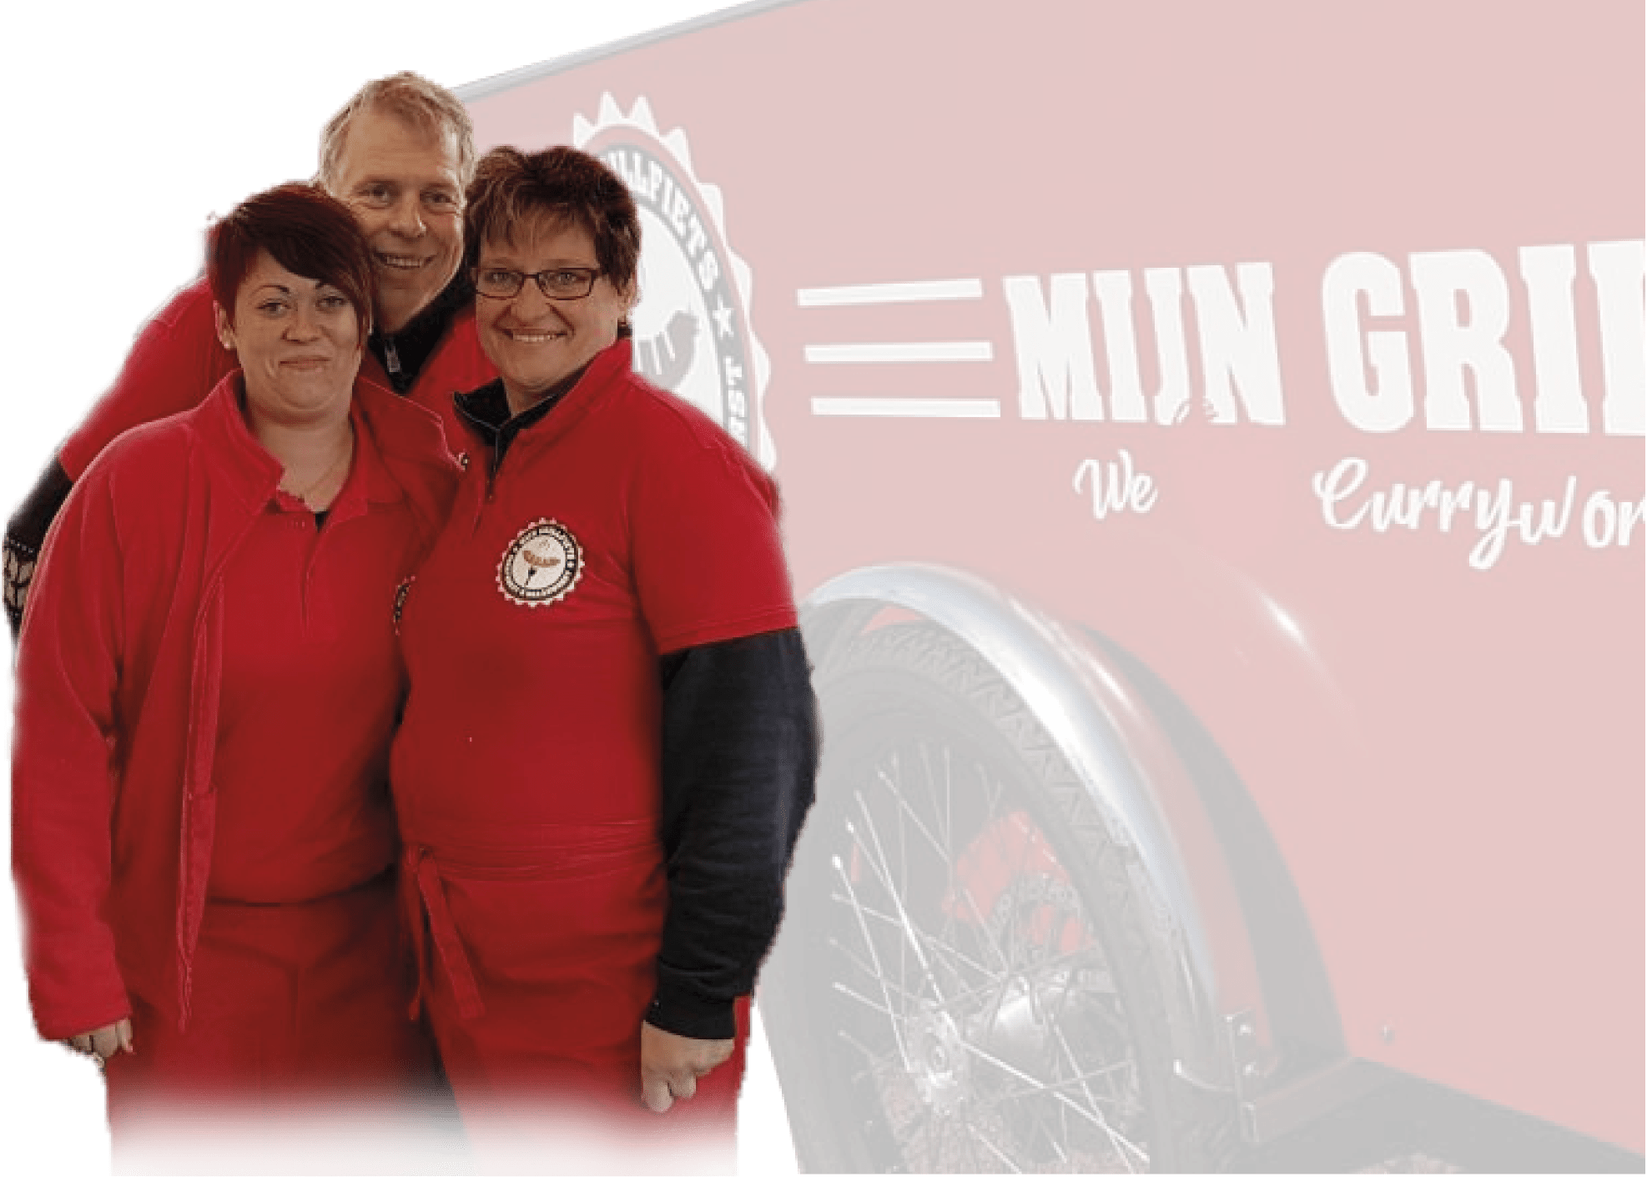
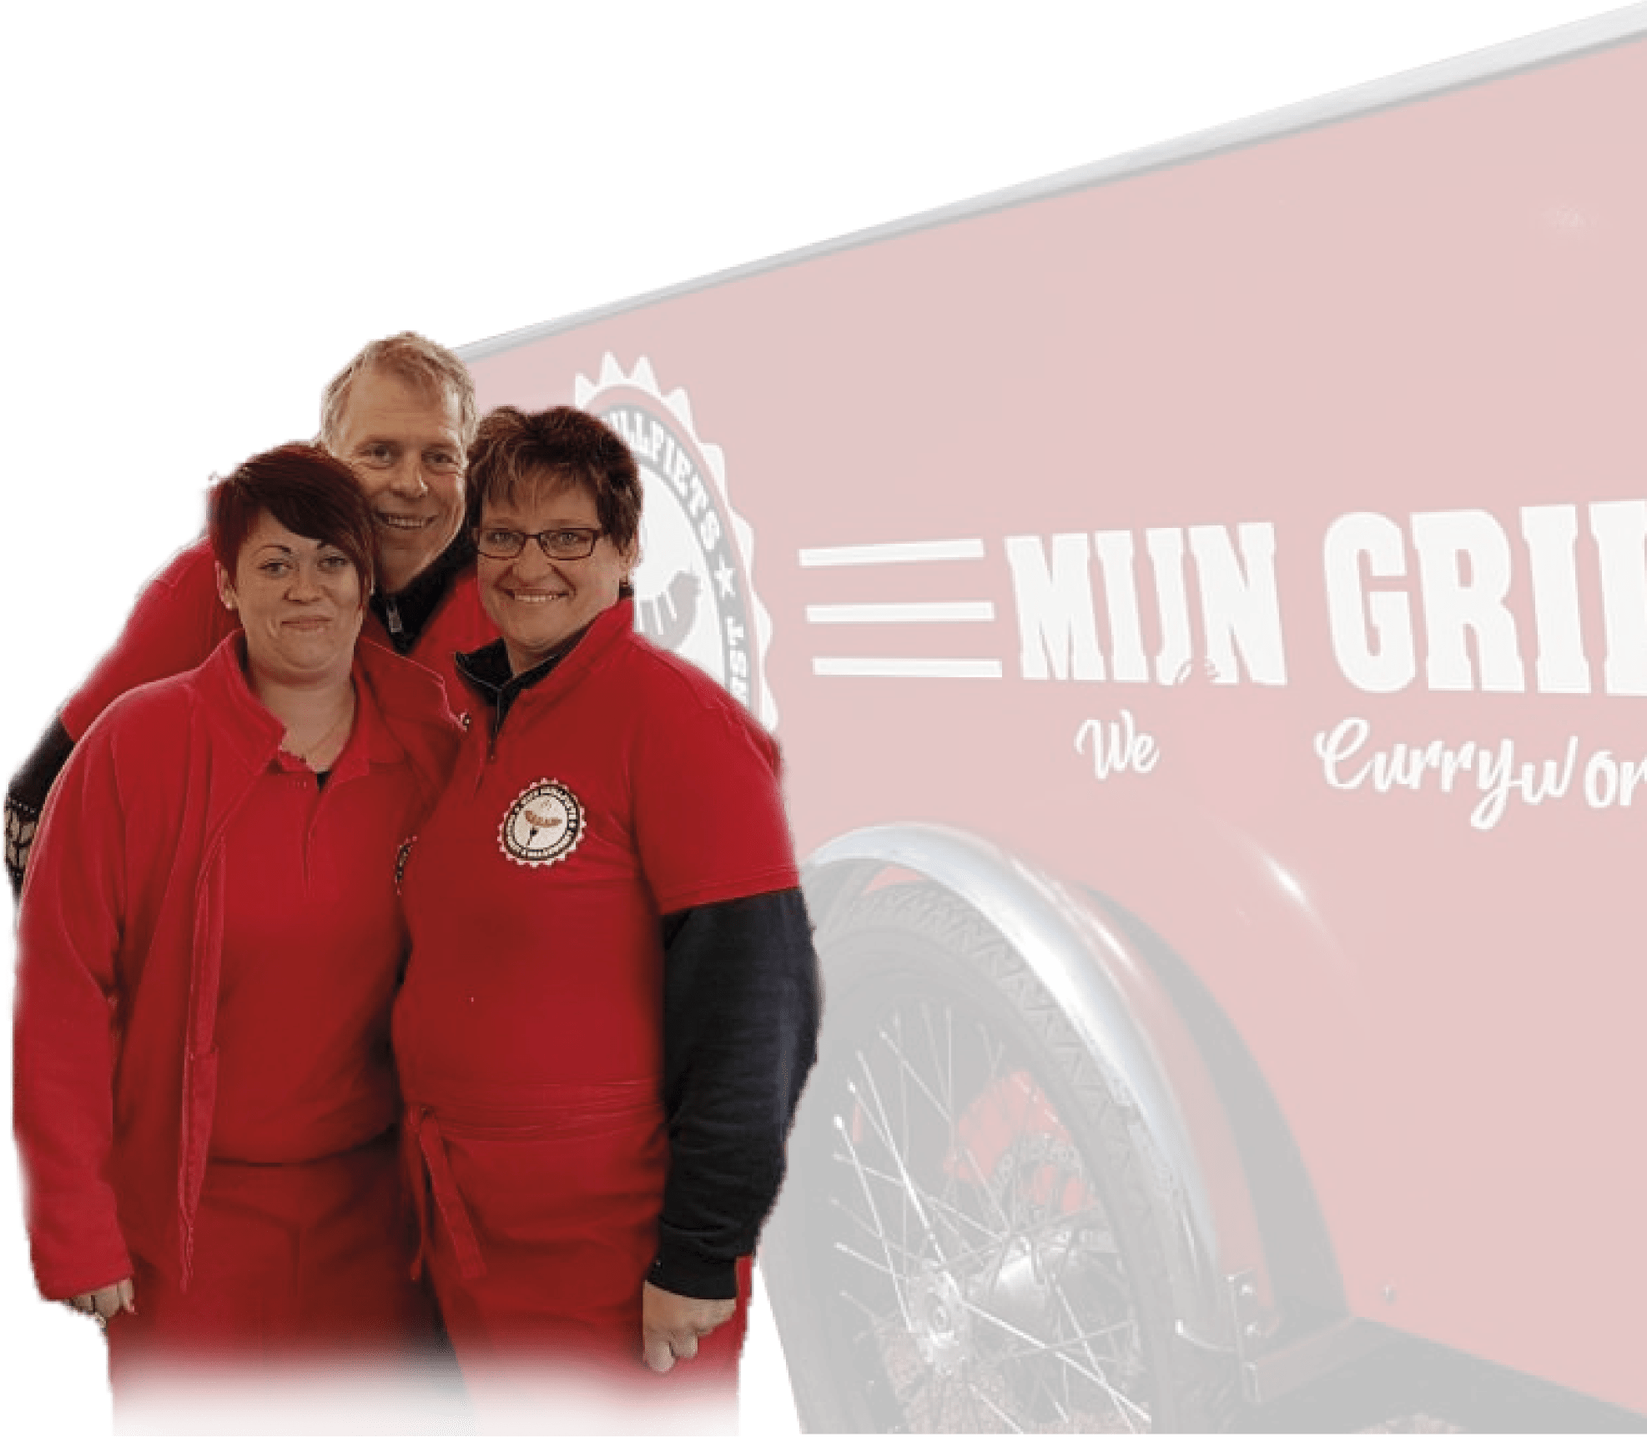
about page

diff --git a/public/css/styles.min.css b/public/css/styles.min.css
@@ -1,2 +1,2 @@
-@font-face{font-family:MyriadProRegular;font-weight:400;src:url(../fonts/MyriadPro/MyriadProRegular.eot) format("embedded-opentype"),url(../fonts/MyriadPro/MyriadProRegular.otf) format("otf"),url(../fonts/MyriadPro/MyriadProRegular.woff2) format("woff2"),url(../fonts/MyriadPro/MyriadProRegular.woff) format("woff"),url(../fonts/MyriadPro/MyriadProRegular.ttf) format("truetype"),url(../fonts/MyriadPro/MyriadProRegular.svg) format("svg")}@font-face{font-family:ArialRegular;font-weight:400;src:url(../fonts/Arial/ArialRegular.eot) format("embedded-opentype"),url(../fonts/Arial/ArialRegular.woff) format("woff"),url(../fonts/Arial/ArialRegular.ttf) format("truetype")}@font-face{font-family:AcmeRegular;font-weight:400;src:url(../fonts/Acme/AcmeFontRegular.eot) format("embedded-opentype"),url(../fonts/Acme/AcmeFontRegular.otf) format("otf"),url(../fonts/Acme/AcmeFontRegular.woff2) format("woff2"),url(../fonts/Acme/AcmeFontRegular.woff) format("woff"),url(../fonts/Acme/AcmeFontRegular.ttf) format("truetype"),url(../fonts/Acme/AcmeFontRegular.svg) format("svg")}@font-face{font-family:VtksColoredSoul3;font-weight:400;src:url(../fonts/VtksColoredSoul3/VtksColoredSoul3.eot) format("embedded-opentype"),url(../fonts/VtksColoredSoul3/VtksColoredSoul3.otf) format("otf"),url(../fonts/VtksColoredSoul3/VtksColoredSoul3.woff2) format("woff2"),url(../fonts/VtksColoredSoul3/VtksColoredSoul3.woff) format("woff"),url(../fonts/VtksColoredSoul3/VtksColoredSoul3.ttf) format("truetype"),url(../fonts/VtksColoredSoul3/VtksColoredSoul3.svg) format("svg")}body,html{width:100%}body{background-image:url(../img/body-bg.png);background-repeat:no-repeat;background-size:cover;border:0;font-family:ArialRegular;font-style:inherit;font-weight:inherit;margin:0;padding:0;text-align:left;vertical-align:baseline}a,a:active,a:focus,a:hover{text-decoration:none}input,input:active,input:focus,input:hover,textarea,textarea:active,textarea:focus,textarea:hover{outline:none}.container{*zoom:1}.container:after{clear:both;content:"";display:table;line-height:0}.container{-webkit-box-sizing:border-box;box-sizing:border-box;margin-left:auto;margin-right:auto;padding-left:10px;padding-right:10px;position:relative}@media (max-width:1200px){.container{width:1200px}}@media (max-width:992px){.container{width:990px}}@media (max-width:770px){.container{width:760px}}@media (max-width:768px){.container{width:100%}}.header,.header__navigation{float:left;position:relative;width:100%}.header__navigation{z-index:1}.header__nav{-ms-flex-direction:row;-ms-flex-pack:center;-ms-flex-wrap:wrap;-webkit-box-direction:normal;-webkit-box-orient:horizontal;-webkit-box-pack:center;display:-webkit-box;display:-ms-flexbox;display:flex;flex-direction:row;flex-wrap:wrap;float:left;justify-content:center;list-style:none;margin:0;padding:15px 0 0;position:relative;width:100%}@media (max-width:900px){.header__nav{background-color:#c42328;display:none;position:absolute;right:0;width:250px}}@media (max-width:660px){.header__nav{width:100%}}.header__nav>li{float:left;margin:0 30px;position:relative}@media (max-width:900px){.header__nav>li{margin:0;width:100%}}.header__nav>li a{color:#fff;float:left;font-family:MyriadProRegular;font-size:20px;position:relative;text-align:center;text-transform:uppercase;width:100%}.header__nav>li a:after{-ms-filter:"progid:DXImageTransform.Microsoft.Alpha(Opacity=0)";-o-transition:all .4s linear;-webkit-transition:all .4s linear;background-color:#801e1a;content:"";display:block;height:2px;left:10%;opacity:0;position:absolute;transition:all .4s linear;width:1%}.header__nav>li a:hover{color:#fff}.header__nav>li a:hover:after{-ms-filter:"progid:DXImageTransform.Microsoft.Alpha(Opacity=100)";-o-transition:all .4s linear;-webkit-transition:all .4s linear;opacity:1;transition:all .4s linear;width:80%}.header__trigger{background-color:transparent;cursor:pointer;display:none;height:50px;position:absolute;right:12px;top:0;width:50px;z-index:15}@media (max-width:900px){.header__trigger{display:block}}.header__trigger span{background-color:#fff;display:block;height:2px;left:50%;margin-left:-9px;margin-top:-1px;position:absolute;top:50%;width:18px}.header__trigger span:first-of-type{margin-top:-6px}.header__trigger span:first-of-type,.header__trigger span:last-of-type{-o-transition:all .2s;-webkit-transition:all .2s;content:"";transition:all .2s}.header__trigger span:last-of-type{margin-top:4px}.header__trigger.js-trigger-active span:nth-of-type(2){display:none}.header__trigger.js-trigger-active span{background-color:#fff}.header__trigger.js-trigger-active span:first-of-type{-ms-transform:rotate(135deg);-webkit-transform:rotate(135deg);margin-top:0;transform:rotate(135deg)}.header__trigger.js-trigger-active span:last-of-type{-ms-transform:rotate(-134deg);-webkit-transform:rotate(-134deg);margin-top:0;transform:rotate(-134deg)}.top-banner{display:block;float:left;height:325px;position:relative;width:100%}@media (max-width:900px){.top-banner{height:167px}}@media (max-width:660px){.top-banner{height:65px}}.top-banner__img{-webkit-box-shadow:0 -2px 51px 0 #000;box-shadow:0 -2px 51px 0 #000;height:100%;left:0;overflow:hidden;position:absolute;top:0;width:100%}.top-banner__img>img,.top-banner__img svg{-o-object-fit:cover;height:100%;object-fit:cover;width:100%}.main{padding-bottom:30px;padding-top:30px}.main,.main__title{float:left;position:relative;width:100%}.main__title{color:#fff;font-family:AcmeRegular;margin:0;text-align:center;text-transform:uppercase}@media (max-width:600px){.main__title{-moz-box-sizing:border-box;-ms-box-sizing:border-box;-webkit-box-sizing:border-box;box-sizing:border-box;margin-top:30px;padding:0 15px}}.main__title:before{left:0}.main__title:after,.main__title:before{background-image:url(../img/icons/burger-icon.png);background-repeat:no-repeat;background-size:contain;content:"";display:block;height:40px;position:absolute;top:11px;width:40px}.main__title:after{right:0}.main__subtitle{background-image:url(../img/subtitle.png);background-position:50%;background-repeat:no-repeat;background-size:contain;height:40px;margin-bottom:30px;margin-top:-16px}.main__content,.main__subtitle{display:block;float:left;position:relative;width:100%}@media (max-width:660px){.main__content{-moz-box-sizing:border-box;-ms-box-sizing:border-box;-webkit-box-sizing:border-box;box-sizing:border-box;padding:16px 20px}}.main__content:before{background-image:url(../img/q-top.png);background-repeat:no-repeat;background-size:contain;content:"";display:block;height:100px;position:absolute;right:-34px;top:-18px;width:50px}@media (max-width:600px){.main__content:before{right:0;top:0}}.main__content:after{background-image:url(../img/q-bottom.png);background-repeat:no-repeat;background-size:contain;bottom:-18px;content:"";display:block;height:100px;left:-34px;position:absolute;width:50px}@media (max-width:600px){.main__content:after{bottom:0;left:0}}.main__content p{color:#fff;float:left;font-family:ArialRegular;font-size:16px;line-height:1.5;margin-top:0;position:relative;width:100%}.main__content--about{margin-bottom:100px;margin-top:50px}.main__partners{-ms-flex-direction:row;-ms-flex-pack:justify;-ms-flex-wrap:wrap;-webkit-box-direction:normal;-webkit-box-orient:horizontal;-webkit-box-pack:justify;display:-webkit-box;display:-ms-flexbox;display:flex;flex-direction:row;flex-wrap:wrap;float:left;justify-content:space-between;margin-bottom:50px;margin-top:30px;position:relative;width:100%}.main__partners--item{float:left;height:70px;margin:0 10px;overflow:hidden;position:relative;width:calc(50% - 20px);width:-webkit-calc(50% - 20px);width:-moz-calc(50% - 20px)}.main__partners--item>img{-o-object-fit:contain;height:100%;object-fit:contain;width:100%}.main__video{-moz-box-sizing:border-box;-ms-box-sizing:border-box;-webkit-box-sizing:border-box;box-sizing:border-box;float:left;height:-webkit-calc(100% - 70px);height:calc(100% - 70px);padding-left:50px;position:relative;width:100%}@media (max-width:660px){.main__video{height:170px;padding:0}}.main__video video{display:block;float:left;height:100%;position:relative;width:100%}
+@font-face{font-family:MyriadProRegular;font-weight:400;src:url(../fonts/MyriadPro/MyriadProRegular.eot) format("embedded-opentype"),url(../fonts/MyriadPro/MyriadProRegular.otf) format("otf"),url(../fonts/MyriadPro/MyriadProRegular.woff2) format("woff2"),url(../fonts/MyriadPro/MyriadProRegular.woff) format("woff"),url(../fonts/MyriadPro/MyriadProRegular.ttf) format("truetype"),url(../fonts/MyriadPro/MyriadProRegular.svg) format("svg")}@font-face{font-family:ArialRegular;font-weight:400;src:url(../fonts/Arial/ArialRegular.eot) format("embedded-opentype"),url(../fonts/Arial/ArialRegular.woff) format("woff"),url(../fonts/Arial/ArialRegular.ttf) format("truetype")}@font-face{font-family:AcmeRegular;font-weight:400;src:url(../fonts/Acme/AcmeFontRegular.eot) format("embedded-opentype"),url(../fonts/Acme/AcmeFontRegular.otf) format("otf"),url(../fonts/Acme/AcmeFontRegular.woff2) format("woff2"),url(../fonts/Acme/AcmeFontRegular.woff) format("woff"),url(../fonts/Acme/AcmeFontRegular.ttf) format("truetype"),url(../fonts/Acme/AcmeFontRegular.svg) format("svg")}@font-face{font-family:VtksColoredSoul3;font-weight:400;src:url(../fonts/VtksColoredSoul3/VtksColoredSoul3.eot) format("embedded-opentype"),url(../fonts/VtksColoredSoul3/VtksColoredSoul3.otf) format("otf"),url(../fonts/VtksColoredSoul3/VtksColoredSoul3.woff2) format("woff2"),url(../fonts/VtksColoredSoul3/VtksColoredSoul3.woff) format("woff"),url(../fonts/VtksColoredSoul3/VtksColoredSoul3.ttf) format("truetype"),url(../fonts/VtksColoredSoul3/VtksColoredSoul3.svg) format("svg")}body,html{width:100%}body{background-image:url(../img/body-bg.png);background-repeat:no-repeat;background-size:cover;border:0;font-family:ArialRegular;font-style:inherit;font-weight:inherit;margin:0;padding:0;text-align:left;vertical-align:baseline}a,a:active,a:focus,a:hover{text-decoration:none}input,input:active,input:focus,input:hover,textarea,textarea:active,textarea:focus,textarea:hover{outline:none}.container{*zoom:1}.container:after{clear:both;content:"";display:table;line-height:0}.container{-webkit-box-sizing:border-box;box-sizing:border-box;margin-left:auto;margin-right:auto;padding-left:10px;padding-right:10px;position:relative}@media (max-width:1200px){.container{width:1200px}}@media (max-width:992px){.container{width:990px}}@media (max-width:770px){.container{width:760px}}@media (max-width:768px){.container{width:100%}}.header,.header__navigation{float:left;position:relative;width:100%}.header__navigation{z-index:1}.header__nav{-ms-flex-direction:row;-ms-flex-pack:center;-ms-flex-wrap:wrap;-webkit-box-direction:normal;-webkit-box-orient:horizontal;-webkit-box-pack:center;display:-webkit-box;display:-ms-flexbox;display:flex;flex-direction:row;flex-wrap:wrap;float:left;justify-content:center;list-style:none;margin:0;padding:15px 0 0;position:relative;width:100%}@media (max-width:900px){.header__nav{background-color:#c42328;display:none;position:absolute;right:0;width:250px}}@media (max-width:660px){.header__nav{width:100%}}.header__nav>li{float:left;margin:0 30px;position:relative}@media (max-width:900px){.header__nav>li{margin:10px 0;width:100%}}.header__nav>li a{color:#fff;float:left;font-family:MyriadProRegular;font-size:20px;position:relative;text-align:center;text-transform:uppercase;width:100%}.header__nav>li a:after{-ms-filter:"progid:DXImageTransform.Microsoft.Alpha(Opacity=0)";-o-transition:all .4s linear;-webkit-transition:all .4s linear;background-color:#801e1a;content:"";display:block;height:2px;left:10%;opacity:0;position:absolute;transition:all .4s linear;width:1%}.header__nav>li a:hover{color:#fff}.header__nav>li a:hover:after{-ms-filter:"progid:DXImageTransform.Microsoft.Alpha(Opacity=100)";-o-transition:all .4s linear;-webkit-transition:all .4s linear;opacity:1;transition:all .4s linear;width:80%}.header__trigger{background-color:transparent;cursor:pointer;display:none;height:50px;position:absolute;right:12px;top:0;width:50px;z-index:15}@media (max-width:900px){.header__trigger{display:block}}.header__trigger span{background-color:#fff;display:block;height:2px;left:50%;margin-left:-9px;margin-top:-1px;position:absolute;top:50%;width:18px}.header__trigger span:first-of-type{margin-top:-6px}.header__trigger span:first-of-type,.header__trigger span:last-of-type{-o-transition:all .2s;-webkit-transition:all .2s;content:"";transition:all .2s}.header__trigger span:last-of-type{margin-top:4px}.header__trigger.js-trigger-active span:nth-of-type(2){display:none}.header__trigger.js-trigger-active span{background-color:#fff}.header__trigger.js-trigger-active span:first-of-type{-ms-transform:rotate(135deg);-webkit-transform:rotate(135deg);margin-top:0;transform:rotate(135deg)}.header__trigger.js-trigger-active span:last-of-type{-ms-transform:rotate(-134deg);-webkit-transform:rotate(-134deg);margin-top:0;transform:rotate(-134deg)}.top-banner{display:block;float:left;height:325px;position:relative;width:100%}@media (max-width:900px){.top-banner{height:167px}}@media (max-width:660px){.top-banner{height:80px}}.top-banner__img{-webkit-box-shadow:0 -2px 51px 0 #000;box-shadow:0 -2px 51px 0 #000;height:100%;left:0;overflow:hidden;position:absolute;top:0;width:100%}.top-banner__img>img,.top-banner__img svg{-o-object-fit:cover;height:100%;object-fit:cover;width:100%}.main{float:left;padding-bottom:30px;padding-top:30px;position:relative;width:100%}.main .container .row{margin:0}.main--about{padding-bottom:0}@media (max-width:900px){.main--about{height:calc(100vh - 167px);height:-webkit-calc(100vh - 167px);height:-moz-calc(100vh - 167px)}}@media (max-width:700px){.main--about{height:100%}}.main__title{color:#fff;float:left;font-family:AcmeRegular;margin:0;position:relative;text-align:center;text-transform:uppercase;width:100%}@media (max-width:600px){.main__title{-moz-box-sizing:border-box;-ms-box-sizing:border-box;-webkit-box-sizing:border-box;box-sizing:border-box;margin-top:30px;padding:0 15px}}.main__title:before{left:0}.main__title:after,.main__title:before{background-image:url(../img/icons/burger-icon.png);background-repeat:no-repeat;background-size:contain;content:"";display:block;height:40px;position:absolute;top:11px;width:40px}.main__title:after{right:0}.main__subtitle{background-image:url(../img/subtitle.png);background-position:50%;background-repeat:no-repeat;background-size:contain;height:40px;margin-bottom:30px;margin-top:-16px}.main__content,.main__subtitle{display:block;float:left;position:relative;width:100%}@media (max-width:660px){.main__content{-moz-box-sizing:border-box;-ms-box-sizing:border-box;-webkit-box-sizing:border-box;box-sizing:border-box;padding:16px 20px}}.main__content:before{background-image:url(../img/q-top.png);background-repeat:no-repeat;background-size:contain;content:"";display:block;height:100px;position:absolute;right:-34px;top:-18px;width:50px}@media (max-width:600px){.main__content:before{right:0;top:0}}.main__content:after{background-image:url(../img/q-bottom.png);background-repeat:no-repeat;background-size:contain;bottom:-18px;content:"";display:block;height:100px;left:-34px;position:absolute;width:50px}@media (max-width:600px){.main__content:after{bottom:0;left:0}}.main__content p{color:#fff;float:left;font-family:ArialRegular;font-size:16px;line-height:1.5;margin-top:0;position:relative;width:100%}.main__content--about{margin-bottom:100px;margin-top:50px}@media (max-width:700px){.main__content--about{margin-bottom:20px;margin-top:20px}}.main__partners{-ms-flex-direction:row;-ms-flex-pack:justify;-ms-flex-wrap:wrap;-webkit-box-direction:normal;-webkit-box-orient:horizontal;-webkit-box-pack:justify;display:-webkit-box;display:-ms-flexbox;display:flex;flex-direction:row;flex-wrap:wrap;float:left;justify-content:space-between;margin-bottom:50px;margin-top:30px;position:relative;width:100%}.main__partners--item{float:left;height:70px;margin:0 10px;overflow:hidden;position:relative;width:calc(50% - 20px);width:-webkit-calc(50% - 20px);width:-moz-calc(50% - 20px)}.main__partners--item>img{-o-object-fit:contain;height:100%;object-fit:contain;width:100%}.main__video{-moz-box-sizing:border-box;-ms-box-sizing:border-box;-webkit-box-sizing:border-box;box-sizing:border-box;float:left;height:-webkit-calc(100% - 70px);height:calc(100% - 70px);padding-left:50px;position:relative;width:100%}@media (max-width:660px){.main__video{height:170px;padding:0}}.main__video video{display:block;float:left;height:100%;position:relative;width:100%}.main__team{-moz-box-sizing:border-box;-ms-box-sizing:border-box;-webkit-box-sizing:border-box;box-sizing:border-box;height:calc(100% + 44px);height:-webkit-calc(100% + 44px);height:-moz-calc(100% + 44px);padding-left:50px;position:absolute;right:0;top:-46px;width:50%}@media (max-width:1024px){.main__team{height:100%;top:0}}@media (max-width:700px){.main__team{float:left;padding:0;position:relative;right:inherit;top:inherit;width:100%}}.main__team img{-o-object-fit:cover;height:100%;object-fit:cover;width:100%}@media (max-width:1024px){.main__team img{-o-object-fit:contain;object-fit:contain}}
 /*# sourceMappingURL=styles.min.css.map */

diff --git a/app/sass/content/_main-page.scss b/app/sass/content/_main-page.scss
@@ -4,6 +4,27 @@
   width: 100%;
   padding-top: 30px;
   padding-bottom: 30px;
+
+  .container {
+
+    .row {
+      margin: 0;
+    }
+  }
+
+  &--about {
+    padding-bottom: 0;
+
+    @include breakpoint(max-width 900px) {
+      height: calc(100vh - 167px);
+      height: -webkit-calc(100vh - 167px);
+      height: -moz-calc(100vh - 167px);
+    }
+
+    @include breakpoint(max-width 700px) {
+      height: 100%;
+    }
+  }
   
   &__title {
     position: relative;
@@ -130,6 +151,11 @@
     &--about {
       margin-top: 50px;
       margin-bottom: 100px;
+
+      @include breakpoint(max-width 700px) {
+        margin-top: 20px;
+        margin-bottom: 20px;
+      }
     }
   }
 
@@ -181,6 +207,42 @@
       float: left;
       width: 100%;
       height: 100%;
+    }
+  }
+
+  &__team {
+    position: absolute;
+    top: -46px;
+    right: 0;
+    width: 50%;
+    height: calc(100% + 44px);
+    height: -webkit-calc(100% + 44px);
+    height: -moz-calc(100% + 44px);
+    padding-left: 50px;
+    @include border-box;
+
+    @include breakpoint(max-width 1024px) {
+      top: 0;
+      height: 100%;
+    }
+
+    @include breakpoint(max-width 700px ) {
+      position: relative;
+      float: left;
+      width: 100%;
+      top: inherit;
+      right: inherit;
+      padding: 0;
+    }
+
+    img {
+      width: 100%;
+      height: 100%;
+      object-fit: cover;
+
+      @include breakpoint(max-width 1024px) {
+        object-fit: contain;
+      }
     }
   }
 }

diff --git a/public/about.html b/public/about.html
@@ -23,7 +23,7 @@
         <nav class="header__navigation"><a id="mobile-menu" class="header__trigger"><span></span><span></span><span></span></a>
           <!--    вызов миксина в переменную 'list' с указаним элементов массива(названий страниц)-->
               <ul class="header__nav">
-                <li><a href="/">HOME</a></li>
+                <li><a href="index.html">HOME</a></li>
                 <li><a href="about.html">OVER ONS</a></li>
                 <li><a href="#">ASSORTIMENT</a></li>
                 <li><a href="#">GALLERIJ</a></li>
@@ -33,7 +33,7 @@
         </nav>
       </div>
     </header>
-    <section class="main">
+    <section class="main main--about">
       <div class="container">
         <div class="row">
           <div class="col-lg-5 col-md-5 col-sm-12">
@@ -57,11 +57,9 @@
               </p>
             </div>
           </div>
-          <div class="col-lg-7 col-md-7 col-sm-12">
-            <div class="main__team"><img></div>
-          </div>
         </div>
       </div>
+      <div class="main__team"><img src="img/team.png"></div>
     </section>
     <footer class="footer"></footer>
     <script src="js/jquery-2.1.3.min.js" type="text/javascript"></script>

diff --git a/public/index.html b/public/index.html
@@ -23,7 +23,7 @@
         <nav class="header__navigation"><a id="mobile-menu" class="header__trigger"><span></span><span></span><span></span></a>
           <!--    вызов миксина в переменную 'list' с указаним элементов массива(названий страниц)-->
               <ul class="header__nav">
-                <li><a href="/">HOME</a></li>
+                <li><a href="index.html">HOME</a></li>
                 <li><a href="about.html">OVER ONS</a></li>
                 <li><a href="#">ASSORTIMENT</a></li>
                 <li><a href="#">GALLERIJ</a></li>

diff --git a/app/sass/header/_navigation.scss b/app/sass/header/_navigation.scss
@@ -39,7 +39,7 @@
 
       @include breakpoint(max-width 900px) {
         width: 100%;
-        margin: 0;
+        margin:10px 0;
       }
 
       a {

diff --git a/app/sass/content/_top-banner.scss b/app/sass/content/_top-banner.scss
@@ -10,7 +10,7 @@
   }
 
   @include breakpoint(max-width 660px) {
-    height: 65px;
+    height: 80px;
   }
 
   &__img {
